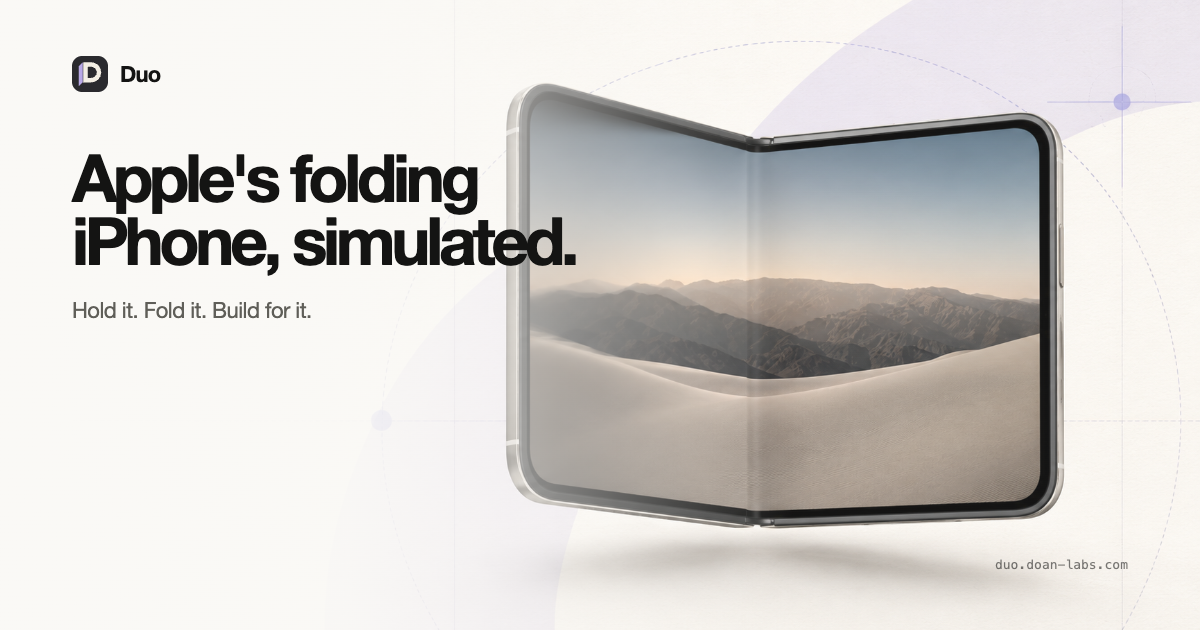
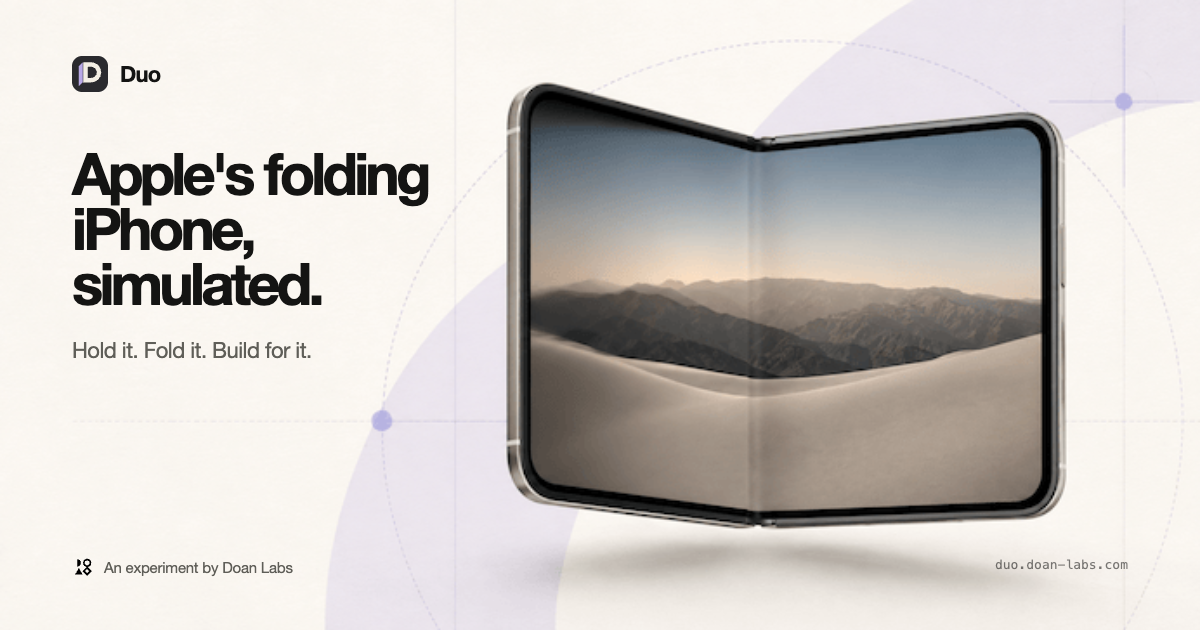
feat(web): point the social card at the corrected blueprint render

diff --git a/packages/web/src/routes/__root.tsx b/packages/web/src/routes/__root.tsx
@@ -12,7 +12,7 @@ import 'lenis/dist/lenis.css'
 import '../reset.css'
 import 'virtual:stylex.css'
 
-const OG_IMAGE = 'https://duo.doan-labs.com/og/duo-og-01.png'
+const OG_IMAGE = 'https://duo.doan-labs.com/og/duo-og-03.png'
 
 export const Route = createRootRoute({
   head: () => ({
